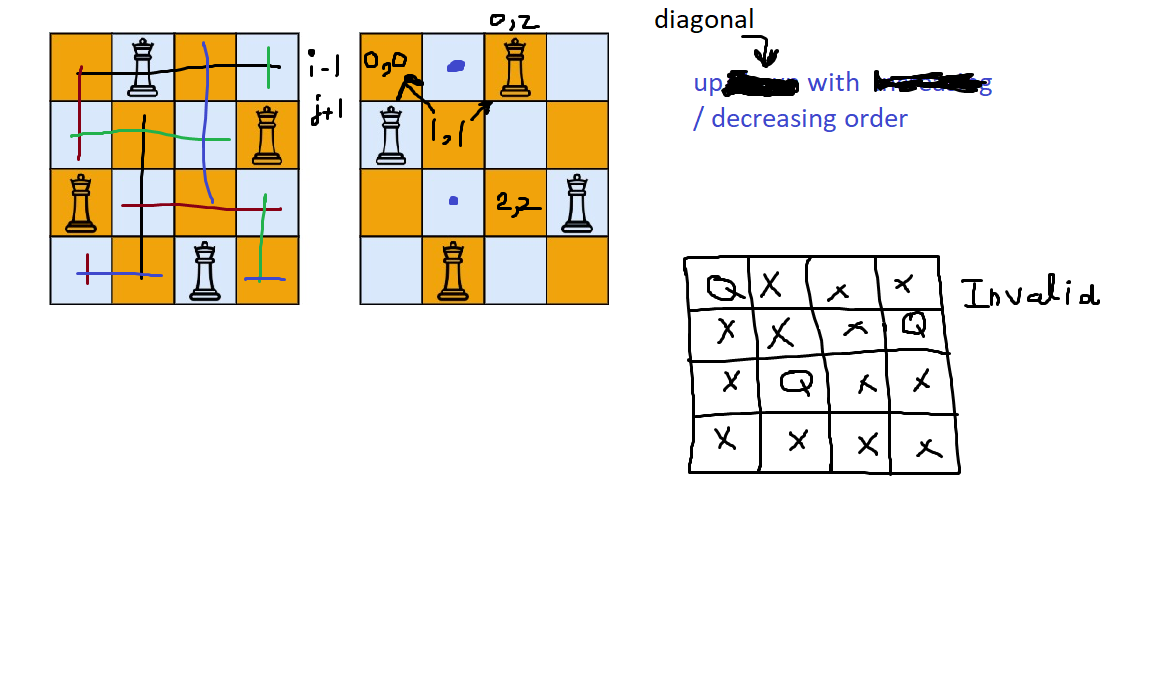
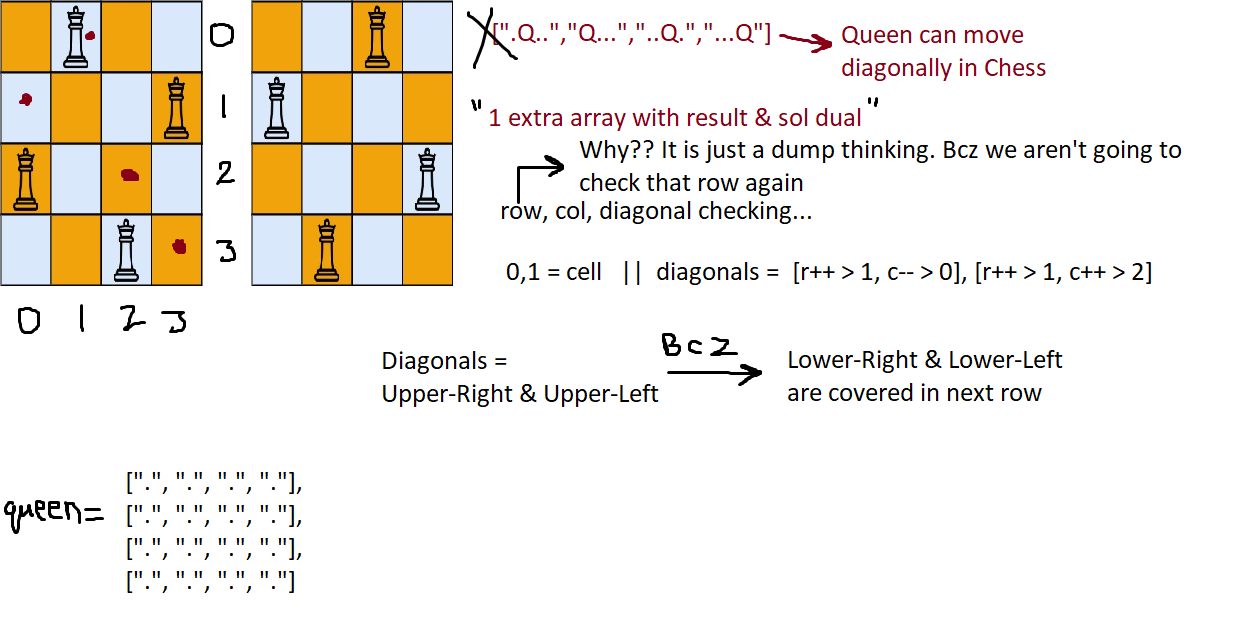
Solve leetcode-51

diff --git a/backtracking/51. N-Queens/code.py b/backtracking/51. N-Queens/code.py
@@ -2,58 +2,72 @@ from typing import List
 
 class Solution:
     def solveNQueens(self, n: int) -> List[List[str]]:
-        # n x n board
+        # Base case: n == 1
+        if n == 1:
+            return [["Q"]]
+
+        # Stores final answer: n x n board
         result = []
-
-        # Current row
-        path = [["."] * n for _ in range(n)]
-
+        
+        # Stores single pair: Rows with default value
+        queen = [["."] * n for _ in range(n)]
+        '''
+        [
+            [".", ".", ".", "."],
+            [".", ".", ".", "."],
+            [".", ".", ".", "."],
+            [".", ".", ".", "."]
+        ]
+        '''
 
         def is_safe(row, col):
             # Column checking
+            # Row in loop bcz col is a loop variable
             for i in range(row):
-                if path[i][col] == "Q":
+                if queen[i][col] == "Q":
+                    # It is attack area
                     return False
-                
-            # Left upper diagonal (row-- , col--)
+
+            # Upper-Left diagonal (row-- , col--)
             for i, j in zip(range(row - 1, -1, -1), range(col - 1, -1, -1)):
-                if path[i][j] == "Q":
+                if queen[i][j] == "Q":
                     return False
-            
-            
-            # Right upper diagonal (row-- , col++)
-            for i, j in zip(range(row - 1, -1, -1), range(col + 1, n)):
-                if path[i][j] == "Q":
+
+            # Upper-Right diagonal (row-- , col++)
+            for i, j in zip(range(row - 1, -1, -1), range(col + 1, n, +1)):
+                if queen[i][j] == "Q":
                     return False
-                
+
+            # No attack at this place
             return True
+        
 
-
-        def backtrack(row, n):
+        def backtrack(row):
+            # Base case to add into result
             if row == n:
-                result.append(["".join(r) for r in path])
+                result.append(["".join(r) for r in queen])
                 return
-            
+
             for col in range(n):
                 if is_safe(row, col):
-                    path[row][col] = "Q"
+                    # Placing queen
+                    queen[row][col] = "Q"
 
-                    # Backtrack
-                    backtrack(row+1, n)
+                    # Backtrack: Next row
+                    backtrack(row+1)
+                    
+                    # POP ( UNDO )
+                    queen[row][col] = "."
+            
 
-                    # UNDO the step
-                    path[row][col] = "."
-
-
-        # Call bactrack function for 1st number
-        backtrack(0, n)
-
+        # Call function with initial value
+        backtrack(0)
         return result
 
-
+    
 obj = Solution()
 print(obj.solveNQueens(4))       # [[".Q..","...Q","Q...","..Q."], ["..Q.","Q...","...Q",".Q.."]]
 print(obj.solveNQueens(1))       # [["Q"]]
 
-# T.C: O(N!)
-# S.C: O(N^2)
+# T.C: O(N!)        --> Number of valid placements explored
+# S.C: O(N^2)       --> Recursive call stack used "NxN Matrix"

diff --git a/backtracking/README.md b/backtracking/README.md
@@ -1,0 +1,40 @@
+# Backtracking
+
+### Can write the generic backtracking skeleton (choose, recurse, undo) from memory
+```
+result, sol = [], []
+
+backtrack(i):
+    Base condition
+
+    # Backtrack
+    backtrack(i+1)
+
+    # Picked picked
+    Add to sol
+    
+    # Backtrack
+    backtrack(i+1)
+
+    # UNDO
+    POP from sol
+
+backtrack(0)
+return result
+```
+
+---
+
+### Can explain how Subsets II skips duplicate branches
+
+By `sorting` the given array in ascending order, we can efficiently skip `duplicates` with the help of `while` loop.
+
+Just start loop with `i+1` index & increment new index `index` if number at indice `i` & `index` are same.
+
+---
+
+### Attempted N-Queens and can explain the column and diagonal constraints
+
+We have to use `loop` for traversal and checking for `columns`.
+
+For `diagonals`, we will only check `UPPER-LEFT` & `UPPER-RIGHT` bcz `LOWER-LEFT` & `LOWER-RIGHT` will be checked by next `row` traversal.
